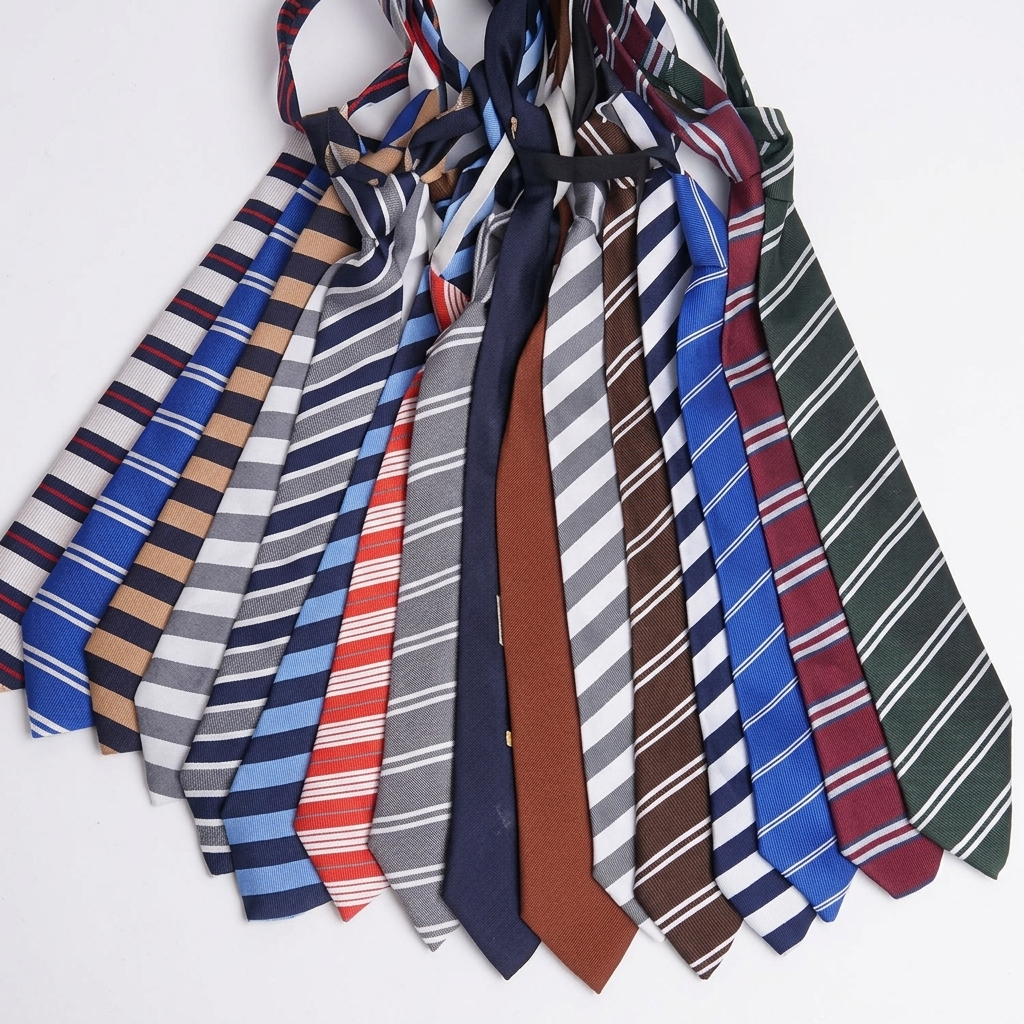
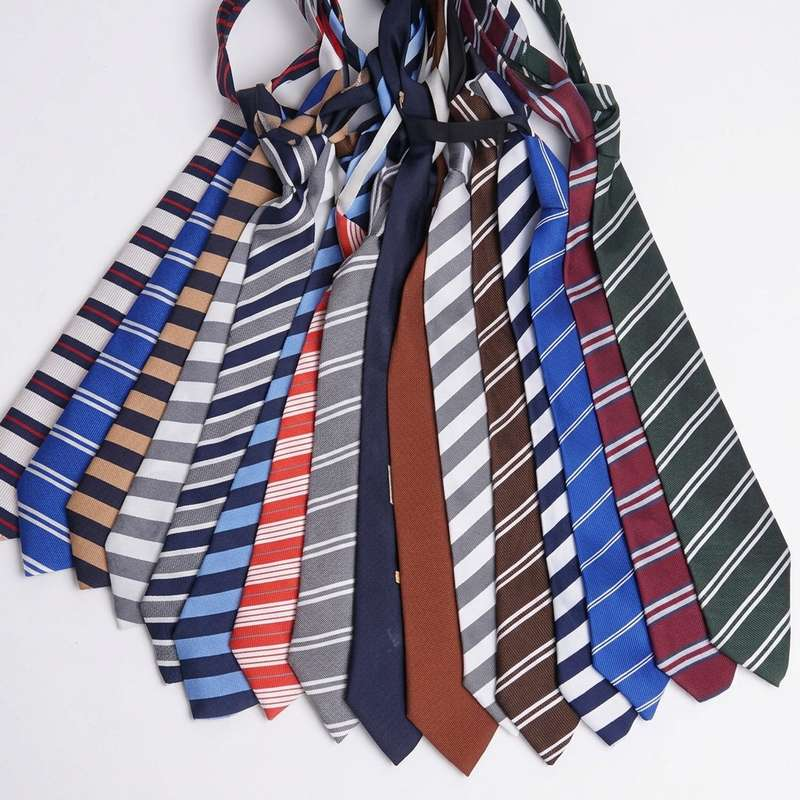
38. Image format changed

diff --git a/src/pages/Category.jsx b/src/pages/Category.jsx
@@ -1,20 +1,20 @@
 import { useParams } from 'react-router-dom';
 import tieImage from '../assets/Tie.jpeg';
 import beltsImage from '../assets/belts.jpeg';
-import badgesImage from '../assets/school_badges.png';
-import stateBoardImage from '../assets/state_board_uniforms.png';
-import cbseImage from '../assets/cbse_uniforms.png';
-import sportsImage from '../assets/sports_uniforms_cover.png';
-import stateTextbooksImage from '../assets/state_textbooks.png';
-import ncertBooksImage from '../assets/ncert_books.png';
-import icseBooksImage from '../assets/icse_board_books.png';
-import studyGuidesImage from '../assets/combined_study_guides.png';
-import aiExamPaperImage from '../assets/ai_exam_paper.png';
-import aiCover1Image from '../assets/ai_cover_1.png';
-import aiCover2Image from '../assets/ai_cover_2.png';
-import aiCombinedCoversImage from '../assets/ai_combined_covers.png';
-import schoolSocksImage from '../assets/school_socks.png';
-import combinedSocksImage from '../assets/combined_socks.png';
+import badgesImage from '../assets/school_badges.jpg';
+import stateBoardImage from '../assets/state_board_uniforms.jpg';
+import cbseImage from '../assets/cbse_uniforms.jpg';
+import sportsImage from '../assets/sports_uniforms_cover.jpg';
+import stateTextbooksImage from '../assets/state_textbooks.jpg';
+import ncertBooksImage from '../assets/ncert_books.jpg';
+import icseBooksImage from '../assets/icse_board_books.jpg';
+import studyGuidesImage from '../assets/combined_study_guides.jpg';
+import aiExamPaperImage from '../assets/ai_exam_paper.jpg';
+import aiCover1Image from '../assets/ai_cover_1.jpg';
+import aiCover2Image from '../assets/ai_cover_2.jpg';
+import aiCombinedCoversImage from '../assets/ai_combined_covers.jpg';
+import schoolSocksImage from '../assets/school_socks.jpg';
+import combinedSocksImage from '../assets/combined_socks.jpg';
 import './Category.css';
 
 const Category = () => {

diff --git a/src/pages/Gallery.jsx b/src/pages/Gallery.jsx
@@ -1,10 +1,10 @@
 import React from 'react';
-import heroBanner from '../assets/hero_banner.png';
-import schoolSupplies from '../assets/school_supplies.png';
-import sportsUniforms from '../assets/sports_uniforms.png';
-import bulkDispatch from '../assets/bulk_dispatch.png';
-import booksGuides from '../assets/books_guides.png';
-import casualWear from '../assets/casual_wear.png';
+import heroBanner from '../assets/hero_banner.jpg';
+import schoolSupplies from '../assets/school_supplies.jpg';
+import sportsUniforms from '../assets/sports_uniforms.jpg';
+import bulkDispatch from '../assets/bulk_dispatch.jpg';
+import booksGuides from '../assets/books_guides.jpg';
+import casualWear from '../assets/casual_wear.jpg';
 import './Gallery.css';
 
 const Gallery = () => {

diff --git a/src/pages/Products.jsx b/src/pages/Products.jsx
@@ -1,11 +1,11 @@
 import { BookOpen, Shirt, Shield } from 'lucide-react';
 import ProductCard from '../components/ProductCard';
-import uniformsComboImage from '../assets/uniforms_combo.png';
-import booksAndGuidesCoverImage from '../assets/books_and_guides_cover.png';
-import examPapersImage from '../assets/exam_papers.png';
-import packingCoversImage from '../assets/ai_packing_covers_hero.png';
-import socksAccessoriesImage from '../assets/combined_socks.png';
-import beltsTiesBadgesImage from '../assets/belts_ties_badges.png';
+import uniformsComboImage from '../assets/uniforms_combo.jpg';
+import booksAndGuidesCoverImage from '../assets/books_and_guides_cover.jpg';
+import examPapersImage from '../assets/exam_papers.jpg';
+import packingCoversImage from '../assets/ai_packing_covers_hero.jpg';
+import socksAccessoriesImage from '../assets/combined_socks.jpg';
+import beltsTiesBadgesImage from '../assets/belts_ties_badges.jpg';
 import './Products.css';
 
 const Products = () => {

diff --git a/src/pages/Home.jsx b/src/pages/Home.jsx
@@ -3,10 +3,10 @@ import { Link } from 'react-router-dom';
 import { ArrowRight, BookOpen, Shirt, Shield } from 'lucide-react';
 import ProductCard from '../components/ProductCard';
 import './Home.css';
-import heroBanner from '../assets/hero_banner.png';
-import booksAndGuidesCoverImage from '../assets/books_and_guides_cover.png';
-import uniformsComboImage from '../assets/uniforms_combo.png';
-import beltsTiesBadgesImage from '../assets/belts_ties_badges.png';
+import heroBanner from '../assets/hero_banner.jpg';
+import booksAndGuidesCoverImage from '../assets/books_and_guides_cover.jpg';
+import uniformsComboImage from '../assets/uniforms_combo.jpg';
+import beltsTiesBadgesImage from '../assets/belts_ties_badges.jpg';
 
 const Home = () => {
   return (

diff --git a/src/pages/About.jsx b/src/pages/About.jsx
@@ -1,6 +1,6 @@
 import React from 'react';
 import './About.css';
-import schoolSuppliesImage from '../assets/school_supplies.png';
+import schoolSuppliesImage from '../assets/school_supplies.jpg';
 
 const About = () => {
   return (

diff --git a/compress_to_jpg.py b/compress_to_jpg.py
@@ -1,0 +1,51 @@
+import os
+from PIL import Image
+
+assets_dir = 'a:/Project/Trigger_Distributors/src/assets'
+src_dir = 'a:/Project/Trigger_Distributors/src'
+
+for filename in os.listdir(assets_dir):
+    if filename.lower().endswith('.png') and filename != 'Logo.png':
+        filepath = os.path.join(assets_dir, filename)
+        new_filename = filename[:-4] + '.jpg'
+        new_filepath = os.path.join(assets_dir, new_filename)
+        
+        try:
+            with Image.open(filepath) as img:
+                if img.mode in ('RGBA', 'LA') or (img.mode == 'P' and 'transparency' in img.info):
+                    # Create a white background
+                    background = Image.new('RGB', img.size, (255, 255, 255))
+                    if img.mode == 'P':
+                        img = img.convert('RGBA')
+                    background.paste(img, mask=img.split()[3])
+                    img = background
+                elif img.mode != 'RGB':
+                    img = img.convert('RGB')
+                
+                # Resize if width > 1000
+                max_width = 1000
+                if img.width > max_width:
+                    ratio = max_width / float(img.width)
+                    new_height = int((float(img.height) * float(ratio)))
+                    img = img.resize((max_width, new_height), Image.Resampling.LANCZOS)
+                
+                img.save(new_filepath, format='JPEG', optimize=True, quality=60)
+            
+            os.remove(filepath)
+            print(f"Converted {filename} to {new_filename} ({os.path.getsize(new_filepath)//1024}KB)")
+            
+            # Update JSX imports
+            for root, _, files in os.walk(src_dir):
+                for f in files:
+                    if f.endswith('.jsx'):
+                        jsx_path = os.path.join(root, f)
+                        with open(jsx_path, 'r', encoding='utf-8') as file:
+                            content = file.read()
+                        
+                        new_content = content.replace(filename, new_filename)
+                        if new_content != content:
+                            with open(jsx_path, 'w', encoding='utf-8') as file:
+                                file.write(new_content)
+                                
+        except Exception as e:
+            print(f"Failed to process {filename}: {e}")

diff --git a/compress_images.py b/compress_images.py
@@ -1,0 +1,30 @@
+import os
+from PIL import Image
+
+assets_dir = 'a:/Project/Trigger_Distributors/src/assets'
+
+for filename in os.listdir(assets_dir):
+    if filename.lower().endswith(('.png', '.jpg', '.jpeg')):
+        filepath = os.path.join(assets_dir, filename)
+        try:
+            with Image.open(filepath) as img:
+                original_size = os.path.getsize(filepath)
+                
+                # Resize if width > 800
+                max_width = 800
+                if img.width > max_width:
+                    ratio = max_width / float(img.width)
+                    new_height = int((float(img.height) * float(ratio)))
+                    img = img.resize((max_width, new_height), Image.Resampling.LANCZOS)
+                
+                if filename.lower().endswith('.png'):
+                    img.save(filepath, format='PNG', optimize=True)
+                else:
+                    if img.mode != 'RGB':
+                        img = img.convert('RGB')
+                    img.save(filepath, format='JPEG', optimize=True, quality=60)
+                
+                new_size = os.path.getsize(filepath)
+                print(f"Compressed {filename}: {original_size//1024}KB -> {new_size//1024}KB")
+        except Exception as e:
+            print(f"Failed to compress {filename}: {e}")